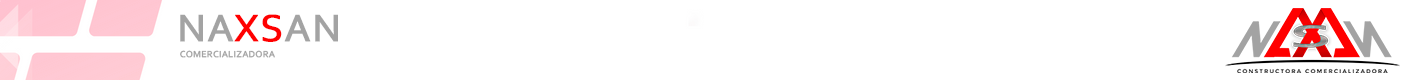
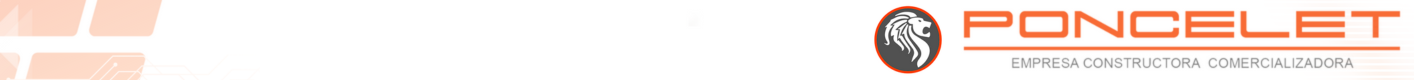
cambios en recibos

diff --git a/sistema/css/styles.css b/sistema/css/styles.css
@@ -3046,12 +3046,12 @@ textarea.form-control-lg {
 
 .btn-primary {
   color: #fff;
-  background-color: #fd0d0d;
-  border-color: #fd0d0d;
+  background-color: #ff7b56;
+  border-color: #ff7b56;
 }
 .btn-primary:hover {
   color: #fff;
-  background-color: #e90505;
+  background-color: #f8653c;
   border-color: #d6683c;
 }
 .btn-check:focus + .btn-primary, .btn-primary:focus {

diff --git a/sistema/pdf_recibos.php b/sistema/pdf_recibos.php
@@ -120,14 +120,14 @@ ob_start();
   
     
             <tr >
-            <th  colspan="3" style="background-color: #ff5050; text-align:left;font-size:15px;" > <span style="color:white">DATOS DE LA EMPRESA</span></th>
+            <th  colspan="3" style="background-color: #ff7a58; text-align:left;font-size:15px;" > <span style="color:white">DATOS DE LA EMPRESA</span></th>
             </tr>
             
 
             <tr class="fon" style="font-size: 11px;">
-                <td> <strong> REPRESENTANTE LEGAL : </strong> ARISPE PONCE DENIS DANIEL </td>
+                <td> <strong> REPRESENTANTE LEGAL : </strong> ARISPE PONCE ALBERTO </td>
                 <td> <strong> CIUDAD : </strong> POTOSÍ</td>
-                <td> <strong> NIT : </strong> 5505982013</td>
+                <td> <strong> NIT : </strong> 6601358013</td>
             
             </tr>
 
@@ -137,7 +137,7 @@ ob_start();
             </tr>
             <tr class="fon" style="font-size: 11px;">
             <td> <strong> TELEFONO : </strong> 72867168 - 70022060 </td>
-            <td colspan="2"> <strong> EMAIL : </strong> comercializadora.naxsan@gmail.com</td>
+            <td colspan="2"> <strong> EMAIL : </strong> poncelet.bo@gmail.com</td>
             </tr>
     
   </table>
@@ -158,7 +158,7 @@ ob_start();
                         </table>
   <table width="100%" border="1">
     <tr>
-      <td style="opacity:0.5;border:#ff5050;background-color:#ff5050; text-align: right; padding:7px;">
+      <td style="opacity:0.5;border:#ff7a58;background-color:#ff7a58; text-align: right; padding:7px;">
       <?php echo '<strong>Recibo: </strong> REC-00000'.$idRecibo ; ?></td>
     </tr>
   </table>

diff --git a/sistema/documentos.php b/sistema/documentos.php
@@ -39,7 +39,7 @@
                             <h3 style="color: #ff5301;text-align:left ;">Cargar Documentos</h3> 
                             <div style="width:100%">
                                 <form style="text-align: center;" method="POST" action="documentos_CargarFicheros.php" enctype="multipart/form-data">
-                                <div style="text-align:center; width:100%" class="form-group btn btn-danger w-100">
+                                <div style="text-align:center; width:100% ;background-color: #ff7b56;border: none;" class="form-group btn btn-danger w-100">
                                 <label style="color: white;" class="btn w-100" for="my-file-selector">Carga tu Archivo aqui<br><br>
                                 <input required="" type="file" name="file" id="exampleInputFile"> 
                                 </label>

diff --git a/sistema/recibos.php b/sistema/recibos.php
@@ -81,7 +81,7 @@ if (!empty($_POST)) {
     <meta name="description" content="" />
     <meta name="author" content="" />
     <link rel="shortcut icon" href="../img/ICONO.png">
-    <title>NAXSAN</title>
+    <title>PONCELET</title>
     
 
 </head>
@@ -98,7 +98,7 @@ if (!empty($_POST)) {
                 <div class="container-fluid px-4 ">
 
                 
-                    <h1 class="mt-4 col"><i class="fa-solid fa-receipt"></i></i> <strong>Generar </strong>Recibos NA<span style="color:#e10101;">XS</span>AN </h1>
+                    <h1 class="mt-4 col"><i class="fa-solid fa-receipt"></i></i> <strong>Generar </strong>Recibos PONCELET </h1>
 
 
                     <hr>
